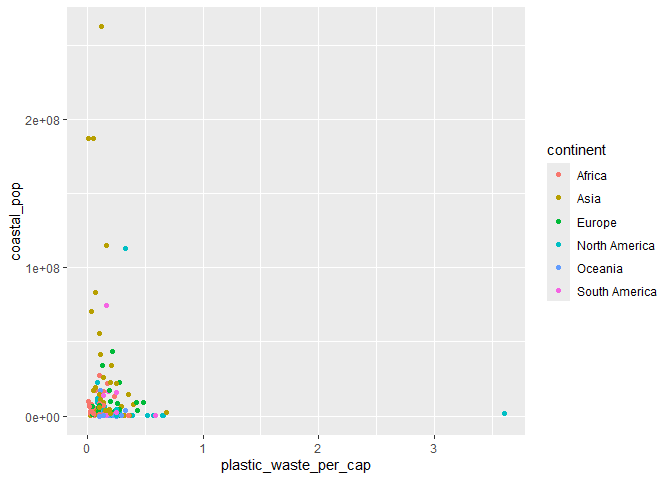
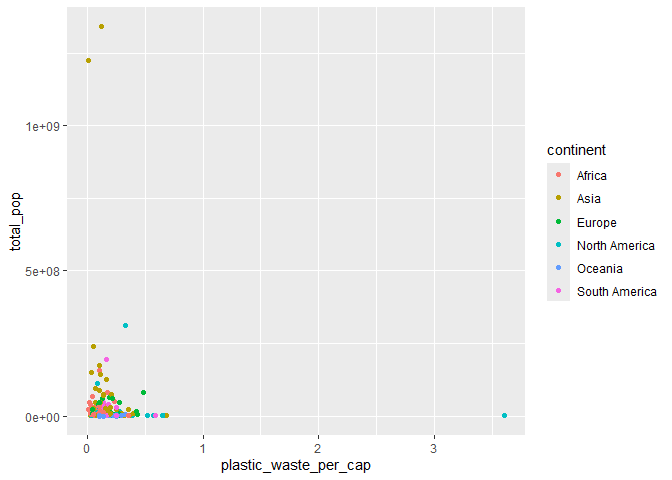
finishing 4.3

diff --git a/lab-02.md b/lab-02.md
@@ -245,12 +245,12 @@ ggplot(
   data = plastic_waste,
   mapping = aes (
     x = plastic_waste_per_cap,
-    y = coastal_pop)
+    y = total_pop)
   ) +
   geom_point (aes(color = continent))
 ```
 
-    ## Warning: Removed 51 rows containing missing values or values outside the scale range
+    ## Warning: Removed 61 rows containing missing values or values outside the scale range
     ## (`geom_point()`).
 
 ![](lab-02_files/figure-gfm/plastic-waste-population-total-1.png)<!-- -->
@@ -259,8 +259,24 @@ This graph visualizes the relationship between plastic waste per capita
 and costal population.
 
 ``` r
-# insert code here
+ggplot(
+  data = plastic_waste,
+  mapping = aes (
+    x = plastic_waste_per_cap,
+    y = coastal_pop)
+  ) +
+  geom_point (aes(color = continent))
 ```
+
+    ## Warning: Removed 51 rows containing missing values or values outside the scale range
+    ## (`geom_point()`).
+
+![](lab-02_files/figure-gfm/plastic-waste-population-coastal-1.png)<!-- -->
+
+Honestly, neither of these graphs appear much more linear than the
+other. The first is more clustered near the bottom left of the graph but
+other than a positive correlation and some outliers, there is not a lot
+to say about these graphs.
 
 ### Exercise 5
 
